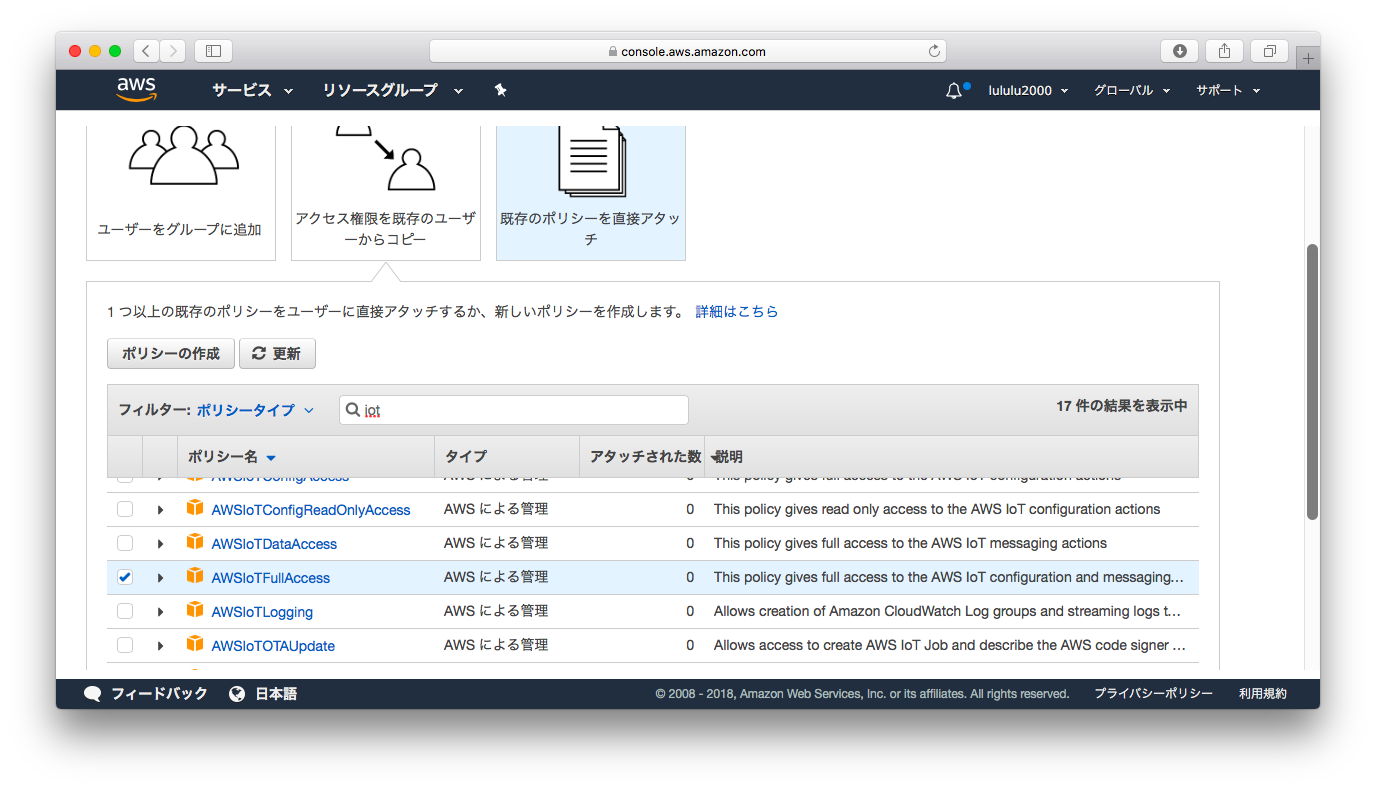
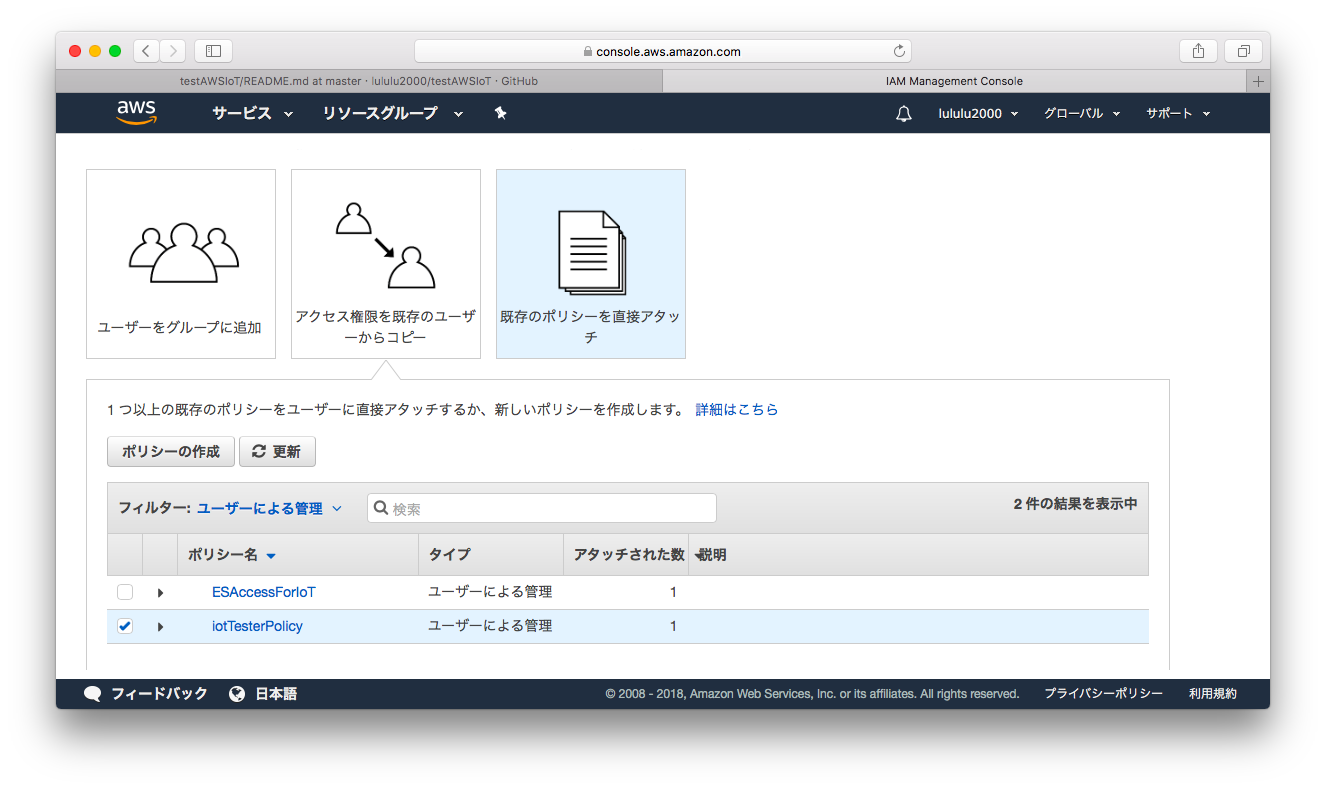
4th day

Changed region(s): [[0.0309, 0.0304, 0.9585, 0.9125], [0.9276, 0.3042, 0.9585, 0.6692], [0.8967, 0.8517, 0.9585, 0.9125]]

diff --git a/README.md b/README.md
@@ -53,8 +53,47 @@ RaspberryPiに温度センサーを取り付け、取得された温度データ
   ![IAMユーザ](imgs/Shot001.png)
   - 「ユーザーを追加」をクリックして、ゆーざーの追加画面にユーザーIDを入力し、アクセスの種類に「プログラムによるアクセス」をチェック。「次のステップ：アクセス権限」をクリックする。
   ![ユーザーの追加](imgs/Shot002.png)
-  - IoT及びElasticsearchサービスを使う予定なので、「既存のポリシーを直接アタッチ」を選んで、「AWSIoTFullAccess」「AmazonESFullAccess」をチェックし、「次のステップ：確認」をクリックする。
+  - IoT及びElasticsearchサービスを使う予定なので、「既存のポリシーを直接アタッチ」を選んで、事前登録されたポリシー`iotTesterPolicy`をチェックし、「次のステップ：確認」をクリックする。
   ![アクセス権限の設定](imgs/Shot003.png)
+  ※事前登録された`iotTesterPolicy`の内容は下記の通り：
+  ```
+  {
+    "Version": "2012-10-17",
+    "Statement": [
+        {
+            "Effect": "Allow",
+            "Action": [
+                "iot:GetPolicy",
+                "iot:CreateThing",
+                "iot:AttachThingPrincipal",
+                "iot:GetTopicRule",
+                "iot:AttachPrincipalPolicy",
+                "iot:AttachPolicy",
+                "es:ESHttpGet",
+                "iot:DescribeThing",
+                "es:CreateElasticsearchDomain",
+                "iot:DescribeCertificate",
+                "iot:CreatePolicy",
+                "iam:CreateRole",
+                "iam:AttachRolePolicy",
+                "es:ListTags",
+                "es:DescribeElasticsearchDomainConfig",
+                "iot:CreateTopicRule",
+                "iot:DescribeEndpoint",
+                "iam:CreatePolicy",
+                "es:ESHttpHead",
+                "es:ListDomainNames",
+                "iam:PassRole",
+                "es:DescribeElasticsearchDomain",
+                "es:DescribeElasticsearchDomains",
+                "iot:CreateKeysAndCertificate",
+                "iot:GetPolicyVersion"
+            ],
+            "Resource": "*"
+        }
+    ]
+  }
+  ```
   - 設定内容を確認し、「ユーザーの作成」をクリックする。
   ![確認](imgs/Shot004.png)
   - ユーザ追加結果画面にアクセスキーペアが表示される。「.csvのダウンロード」をクリックしてキーペア等情報をダウンロードし、控えておく。
@@ -251,7 +290,7 @@ RaspberryPiに温度センサーを取り付け、取得された温度データ
       ```
       Elasticsearchドメインの作成は約１０分間かかる。作成されたドメインの状態を確認する：
         ```
-        $ aws es describe-elasticsearch-domain --domain-name temperature`
+        $ aws es describe-elasticsearch-domain --domain-name temperature
         ```
   2. IoTルールの作成
 
@@ -469,6 +508,6 @@ RaspberryPiに温度センサーを取り付け、取得された温度データ
   ![Guage chart](imgs/Shot019.png)
 
   - 折れ線図
-  
+
   3時間ごとの最高気温/最低気温/平均気温図
   ![Line chart](imgs/Shot020.png)
